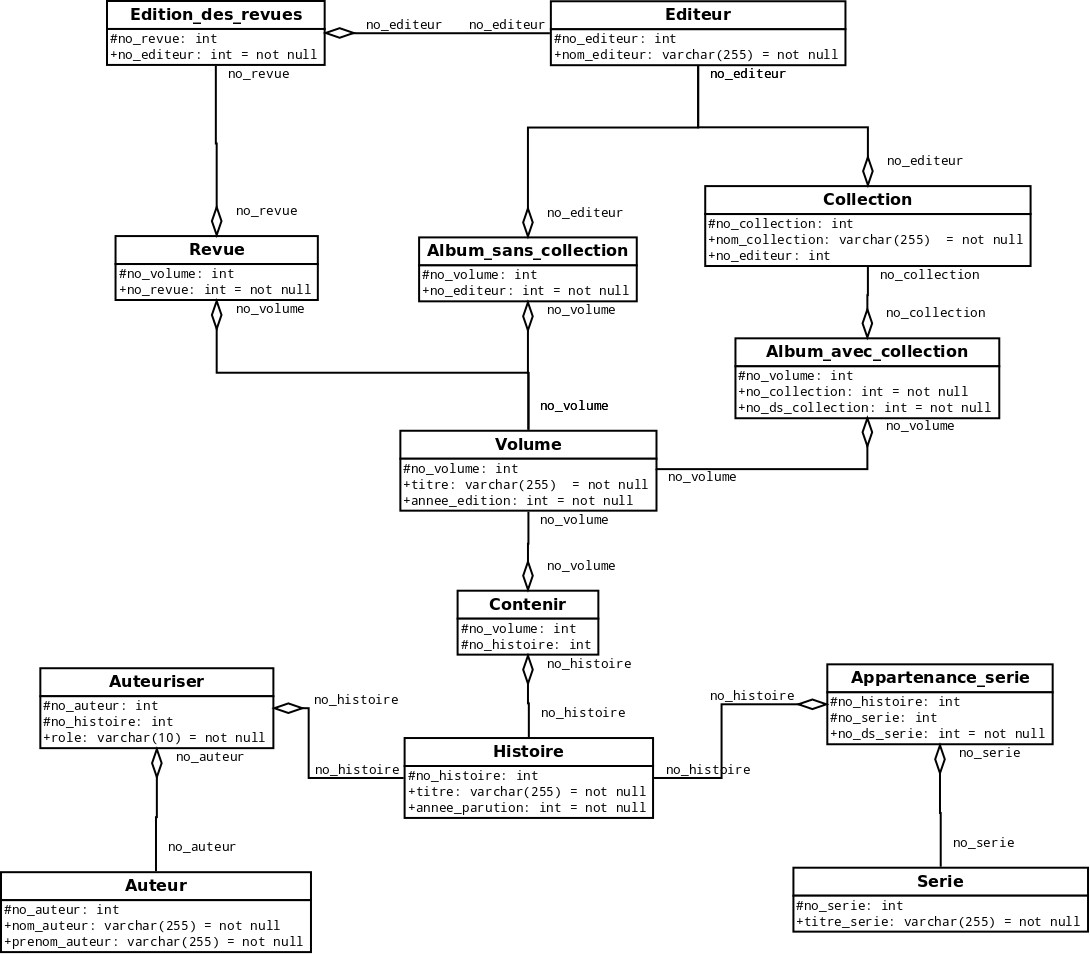
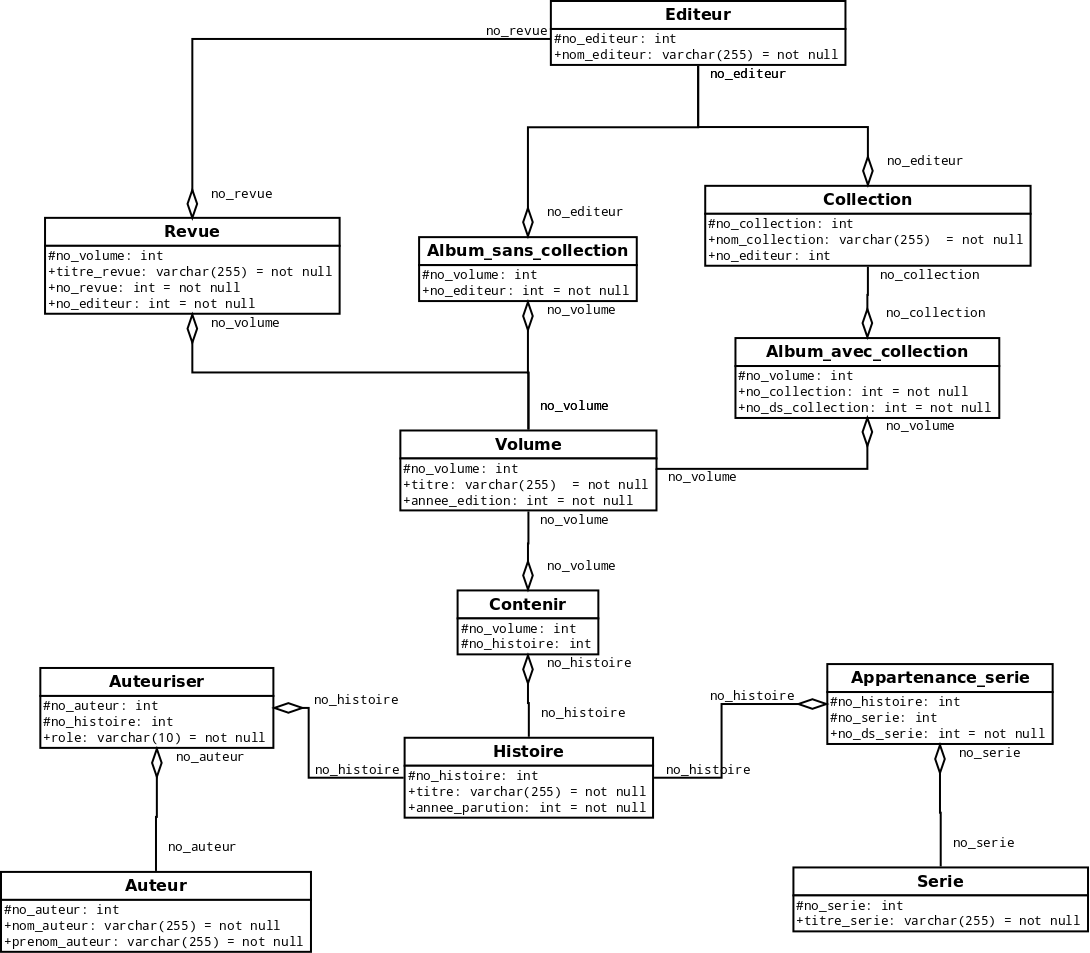
Correction schema relation + ajout schema concept

diff --git a/rapport/rapport.tex b/rapport/rapport.tex
@@ -81,6 +81,9 @@ informations suivantes :
 		numéro de série.
 \end{itemize}
 
+On considère qu'une revue est un ensemble de numéros de la revue et que
+l'éditeur d'une revue peut varier dans le temps.
+
 \paragraph{}
 La lecture de ces informations fait ressortir les entités suivantes :
 \begin{itemize}
@@ -98,7 +101,7 @@ La lecture de ces informations fait ressortir les entités suivantes :
 Le schéma entité-association suivant montre les relations entre ces
 différentes entités :
 
--> [Modèle entité-association]
+\noindent\includegraphics[width=\textwidth]{schema-entite-association}
 
 \subsection{Liste des opérations prévues sur la base (consultation, mise à
 jour, etc.}
